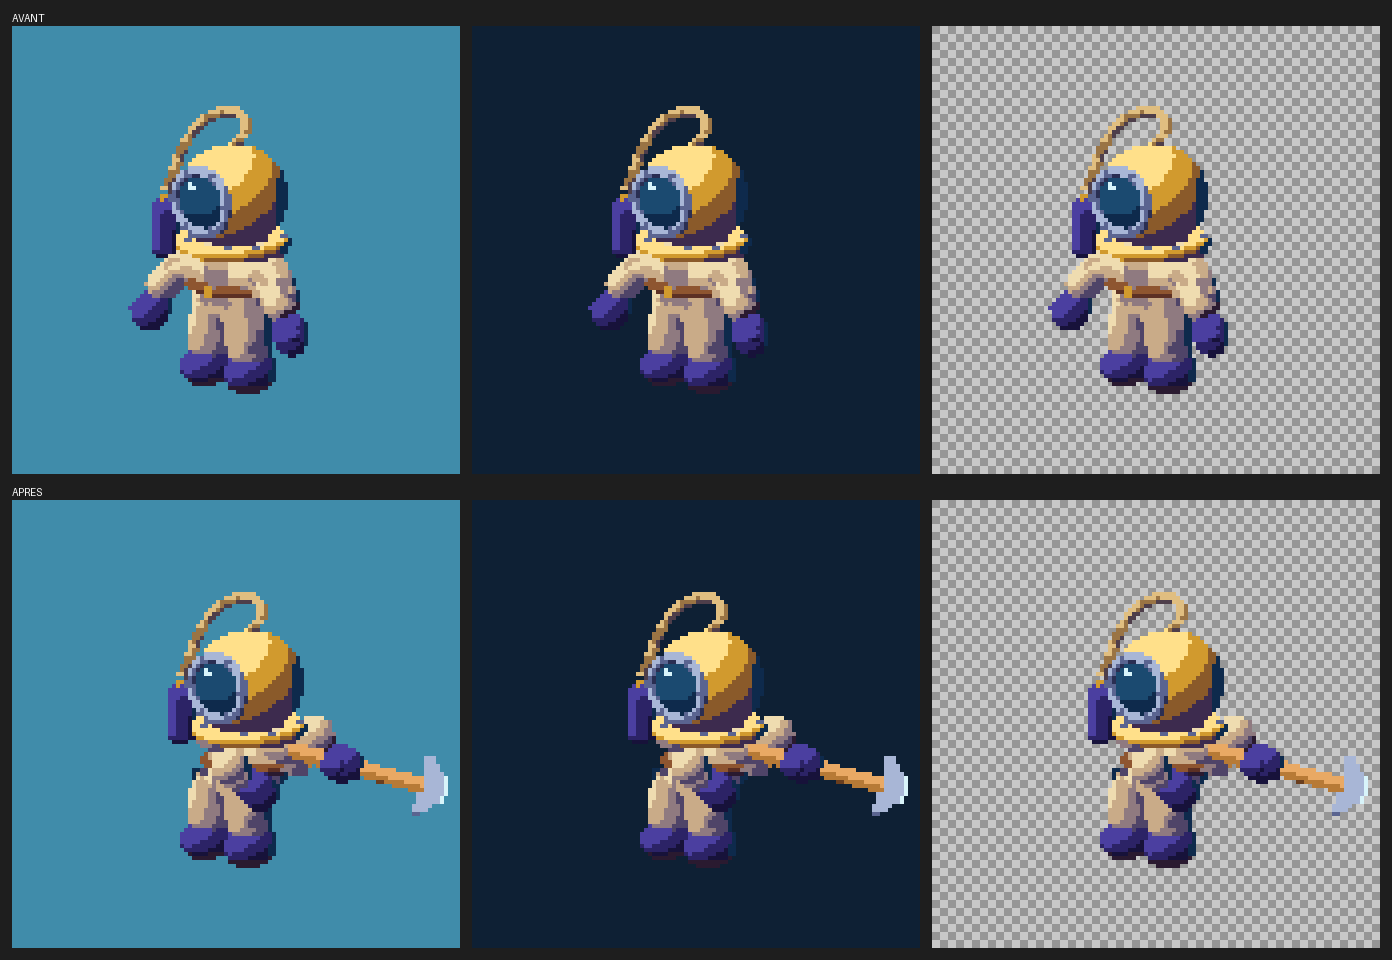
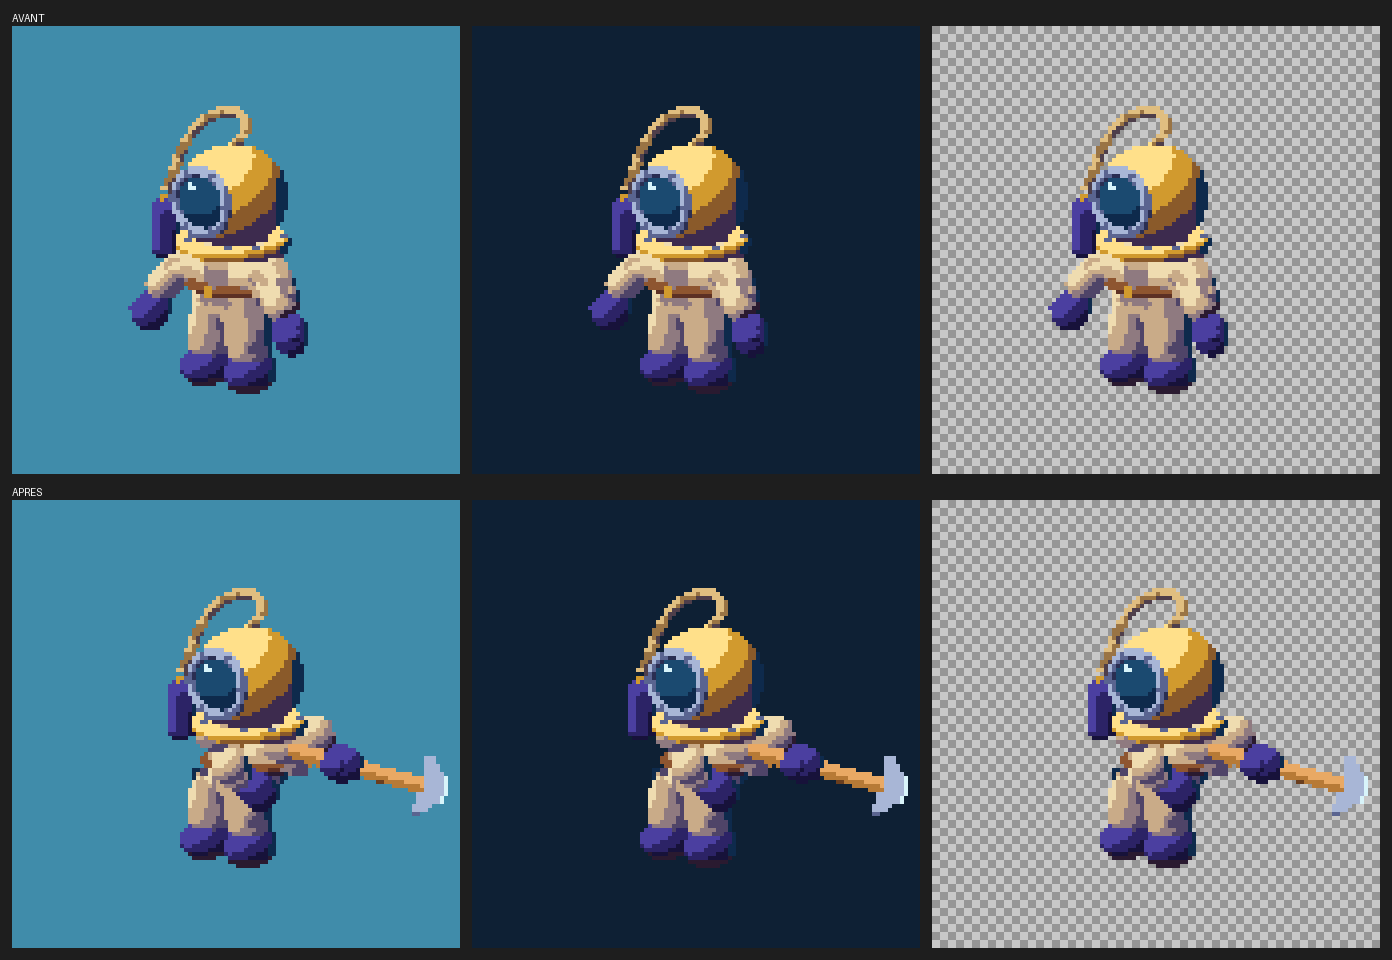
Attaque : corrections après la relecture 3 (retour non en tranche, recul lisible par le bras gauche, impact à 70 px, arc jusqu'au suivi, particules plus visibles)
- retour : pioche à 45 degrés (tête 12 x 12 px au lieu de 8 x 16, en tranche) ; gant à 6,9 px de l'image précédente.
- recul : bras gauche projeté (-45 / -60) et corps penché ; la pioche ne peut pas se relever davantage (casque : 6 à 18 px).
- impact : casque baissé de 2 px (70 px de haut).
- effets : arc de 5 images (recul à suivi), particules 1,4 fois plus grosses (option PARTICULES_ECHELLE, creusage inchangé).
- ETAT.md : section attaque regénérée depuis les contrôles (écarts annoncés : boucle, main gauche, pioche qui fouette).

Claude-Session: https://claude.ai/code/session_01MakRNt29dULcXZ9NF9S3dJ

Changed region(s): [[0.7723, 0.5938, 0.8958, 0.7812], [0.1236, 0.5938, 0.2162, 0.7812], [0.4325, 0.5938, 0.556, 0.7812]]

diff --git a/art/source/blender/creusage_arc.py b/art/source/blender/creusage_arc.py
@@ -31,6 +31,7 @@ BIBLIO = os.path.join(CREUSAGE, "bibliotheque")
 # décalage de la tête par rapport au centre du gant, pour la pioche à 0 degré (mesuré sur la variante +000)
 TETE_DECALAGE = (-0.18, -23.08)
 ARC_IMAGES = [0.40, 0.62, 0.82, 1.00]     # fraction de la trajectoire dessinée dans chaque image de l'arc
+PARTICULES_ECHELLE = float(os.environ.get("PARTICULES_ECHELLE", "1.0"))   # taille des particules (1.0 : creusage)
 LARGEUR_ARC_PX = 5.0                       # épaisseur maximale du croissant (px à 112), nulle aux deux bouts
 
 
@@ -148,7 +149,7 @@ def main():
         x, y = impact[0] + dx, impact[1] + dy
         c = P.monde(x, y, 0.0)
         mat = mat_bulle if genre else mat_debris
-        crees.append(sphere(c, 0.05 * r + 0.02, mat, "particule_%d" % i))
+        crees.append(sphere(c, (0.05 * r + 0.02) * PARTICULES_ECHELLE, mat, "particule_%d" % i))
     chemin_png = os.path.join(dossier, "particules_impact.png")
     P.rendre_fichier(scene, chemin_png)
     resultats.append({"image": "particules_impact.png", "points": len(graines)})

diff --git a/ETAT.md b/ETAT.md
@@ -7,17 +7,22 @@ Creusage VALIDÉ par Julien tel quel (commit 8689ca8). Points notés pour plus t
 3. Ombrage de la pièce torse non corrigé (37 px sur 208 de la zone poitrine diffèrent de l'ancre, voir la section creusage).
 4. Arc de mouvement et particules d'impact non intégrés à la feuille (effets séparés, dans effets/).
 
-## Phase courante : ATTAQUE (lot en cours, première version)
+## Phase courante : ATTAQUE (première version, relecture 3 traitée en partie)
 
-Lot : `art/pixel/plongeur_v6/attaque/lot/` (fiche.json, poses/ 01 à 08, sortie/, controles/, boards/, silhouettes/, effets/, feuille/attaque.png + .json, planche_finale.png). Journal : `art/journal/plongeur_attaque.json` (dix entrées). Décisions (DECISIONS.md) : creusage validé, attaque ensuite.
+Lot : `art/pixel/plongeur_v6/attaque/lot/` (fiche, poses 01 à 08, sortie, controles, boards, silhouettes, effets, feuille/attaque.png + .json, planche_finale.png). Journal : `art/journal/plongeur_attaque.json`.
 
 ### Ce qui est fait
-- Fiche écrite (8 images, 21 images au total). Coup large vers l'avant-droite : garde, recul (anticipation), accélération x2, impact tenu sur la cible à hauteur des hanches (105 degrés), suivi, retour, fin.
-- Épaules qui suivent le torse : option `epaules_suivent_buste` dans l'assembleur (le recul et la penche déplacent les bras). Option désactivée pour le creusage : sorties du creusage vérifiées identiques octet pour octet.
-- Pioche d'attaque : tête plus épaisse (0,26 m au lieu de 0,12 m, environ 15 x 8 px à 0 degré) et reflet clair sur le bord opposé au manche, bloc `bloc_main_d_attaque` (variante `PLONGEUR_TETE_MASSE=1`). Manche de rayon 0,085 m, 3 px au moins.
-- Silhouette noire de chaque image (`silhouettes/`) lue avant la couleur : le geste se lit (levée, balayage à droite, frappe, suivi, retour).
-- Contrôle nouveau : écart de la tête à la cible à l'impact (0,7 px, tolérance 2 px). Les contrôles existants sont inchangés.
-- Effets séparés : arc de mouvement (4 images, Blender, croissant clair, sans contour) et particules sur la cible (`effets/`).
+- Fiche (8 images, 21 unités de durée). Coup large vers l'avant-droite : garde, recul, accélération x2, impact tenu sur la cible à hauteur des hanches (105 degrés), suivi, retour, fin.
+- Épaules qui suivent le torse (option `epaules_suivent_buste`). Sorties du creusage vérifiées identiques.
+- Pioche d'attaque : tête plus épaisse (0,26 m, 15 x 8 px à 0 degré) avec reflet clair (`PLONGEUR_TETE_MASSE=1`, bloc `bloc_main_d_attaque`). Manche de rayon 0,085 m, 3 px au moins.
+- Contrôle nouveau : écart de la tête à la cible à l'impact (0,7 px, tolérance 2 px).
+- Effets séparés : arc de mouvement (5 images, de la garde au suivi) et particules d'impact (93 px).
+- Silhouettes noires (`silhouettes/`) lues avant la couleur.
+
+### Corrections après la relecture 3 (défauts bloquants)
+- Retour : la tête était de profil (8 x 16 px). Retour à 45 degrés : tête 12 x 12 px, distance du gant 6,9 px.
+- Recul : la pioche ne peut pas se relever davantage (à -15 degrés avec une prise plus haute, elle touche le casque : 6 à 18 px, et la tête dépasse le plafond de 72 px). Le recul se lit maintenant par le bras gauche projeté (-45 / -60) et le corps penché (-3 px). Le mouvement de la pioche reste faible (2 px) : limite géométrique à noter.
+- Impact : casque baissé de 2 px au lieu de 3 : 70 px de haut (plage 70 à 72).
 
 ### Contrôles
 | image | pioche/casque | hublot | bras/casque | hauteur | tête (LxH) | critère tête | verdict |
@@ -26,26 +31,20 @@ Lot : `art/pixel/plongeur_v6/attaque/lot/` (fiche.json, poses/ 01 à 08, sortie/
 | 2 recul | 0 | 0 | 0 | 72 | 15x8 | appliqué | OK |
 | 3 accel | 0 | 0 | 0 | 72 | 12x12 | non appliqué | OK |
 | 4 accel2 | 0 | 0 | 0 | 72 | 9x15 | non appliqué | OK |
-| 5 impact | 0 | 0 | 0 | 69 | 9x15 | non appliqué | OK |
+| 5 impact | 0 | 0 | 0 | 70 | 9x15 | non appliqué | OK |
 | 6 suivi | 0 | 0 | 0 | 70 | 12x12 | non appliqué | OK |
-| 7 retour | 0 | 0 | 0 | 72 | 8x16 | non appliqué | OK |
+| 7 retour | 0 | 0 | 0 | 72 | 12x12 | non appliqué | OK |
 | 8 fin | 0 | 0 | 0 | 72 | 14x10 | non appliqué | OK |
 
-Séquence : images distinctes OK ; changements px entre images [1051, 1595, 1300, 1862, 1340, 1768, 1218] ; boucle : garde vs ancre 1122 px, fin vs garde 1096 px (la garde n'est pas l'ancre : voir écarts).
-
-### Décisions prises par moi (notées ici et dans la fiche)
-- Pioche à 0 degré pour la garde et le recul (critère de tête appliqué) : à -30 degrés, la pioche touche le casque (6 à 26 px). Le recul se lit par le corps (buste -3 px, casque -2 px) et le coude replié.
-- Impact à 105 degrés et non 150 : la cible est à hauteur des hanches, pas au sol.
-- Images intermédiaires : accélération x2 (écart de gant limité à 10 px). Pas d'image dessinée à la main : les écarts de gant restent sous 10 px.
-- Bras gauche pendu ou avancé devant le ventre (règle : jamais levé dans le vide).
-- Retour au garde et loop : fin placée à (71 ; 58) pour rester à 10 px de la remontée et de la garde.
+Séquence : images distinctes OK ; changements px entre images [1067, 1587, 1300, 1806, 1150, 1827, 1198] ; boucle : garde vs ancre 1122 px, fin vs garde 1096 px. Pas d'étape de gant au-dessus de 8,4 px ; boucle gant 9,6 px.
 
 ### Écarts annoncés tels quels
-- **Boucle non fermée vers l'ancre** : la garde (pioche levée) diffère de l'ancre de 1122 px (critère « première pose proche de l'ancre » non atteint). La fin revient à la garde, pas à l'ancre (1096 px). Attaque : la première pose est une attaque armée, pas l'ancre au repos ; à trancher.
-- **Main gauche jamais sur le manche** : distance épaule -> manche de 22,9 à 29,1 px selon l'image (portée 18,4 px, +40 % = 25,8 px). Dans les images accélération, impact et suivi (22,9 à 25,6 px), la main pourrait tenir le manche avec un étirement déclaré : l'étirement d'un bras n'est pas encore rendu (chaîne rigide). Les images garde et recul (27 à 29 px) sont hors de toute portée.
-- **Reflet et masse** : reflet clair de 2 à 4 px ; la tête est plus épaisse que celle du creusage (8 px au lieu de 5 à 0 degré).
-- **Effets** : arc et particules non superposés aux images (effets séparés, comme demandé).
-- **Relecture** : pas encore lancée sur l'attaque (à faire après ce commit).
+- **Boucle non fermée vers l'ancre** : la garde (pioche levée) diffère de l'ancre de 1122 px ; la fin revient à la garde (1096 px). À trancher : l'attaque commence armée.
+- **Main gauche jamais sur le manche** : distance épaule -> manche de 22,9 à 29,1 px (garde et recul hors de portée, 27 à 29 px). Dans les images accélération, impact et suivi (23 à 26 px), elle pourrait tenir le manche avec un étirement déclaré : l'étirement n'est pas rendu (chaîne rigide).
+- **Tête qui fouette** : la pioche passe de 26 à 31 px entre deux images (recul -> accélération, fin) alors que le gant bouge de moins de 9 px : la pioche tourne vite. Des images intermédiaires de pioche seraient nécessaires pour un mouvement plus doux.
+- **Teintes** : la pièce torse garde les blocs crème à la poitrine (image 5) : dette d'ombrage du creusage.
+- **Recul** : voir ci-dessus (limite géométrique, pas de rendu de pioche à l'arrière).
+- Relecture 3 : deux défauts bloquants (retour en tranche, recul non lisible), corrigés ; relecture 4 à lancer.
 
 ## Lots suivants (première version) : saut, dégâts, mort
 

diff --git a/art/pixel/plongeur_v6/attaque/lot/controles/controles.md b/art/pixel/plongeur_v6/attaque/lot/controles/controles.md
@@ -4,9 +4,9 @@
 | 2 recul | 0 | 0 | 0 | 72 | 15x8 | 0 | 0 | OK |
 | 3 accel | 0 | 0 | 0 | 72 | 12x12 | 0 | 0 | OK |
 | 4 accel2 | 0 | 0 | 0 | 72 | 9x15 | 0 | 0 | OK |
-| 5 impact | 0 | 0 | 0 | 69 | 9x15 | 0 | 0 | OK |
+| 5 impact | 0 | 0 | 0 | 70 | 9x15 | 0 | 0 | OK |
 | 6 suivi | 0 | 0 | 0 | 70 | 12x12 | 0 | 0 | OK |
-| 7 retour | 0 | 0 | 0 | 72 | 8x16 | 0 | 0 | OK |
+| 7 retour | 0 | 0 | 0 | 72 | 12x12 | 0 | 0 | OK |
 | 8 fin | 0 | 0 | 0 | 72 | 14x10 | 0 | 0 | OK |
 
-Séquence : images distinctes OK ; changements px entre images [1051, 1595, 1300, 1862, 1340, 1768, 1218] ; boucle {'premiere_vs_ancre_px_differents': 1122, 'derniere_vs_premiere_px_differents': 1096}
+Séquence : images distinctes OK ; changements px entre images [1067, 1587, 1300, 1806, 1150, 1827, 1198] ; boucle {'premiere_vs_ancre_px_differents': 1122, 'derniere_vs_premiere_px_differents': 1096}
